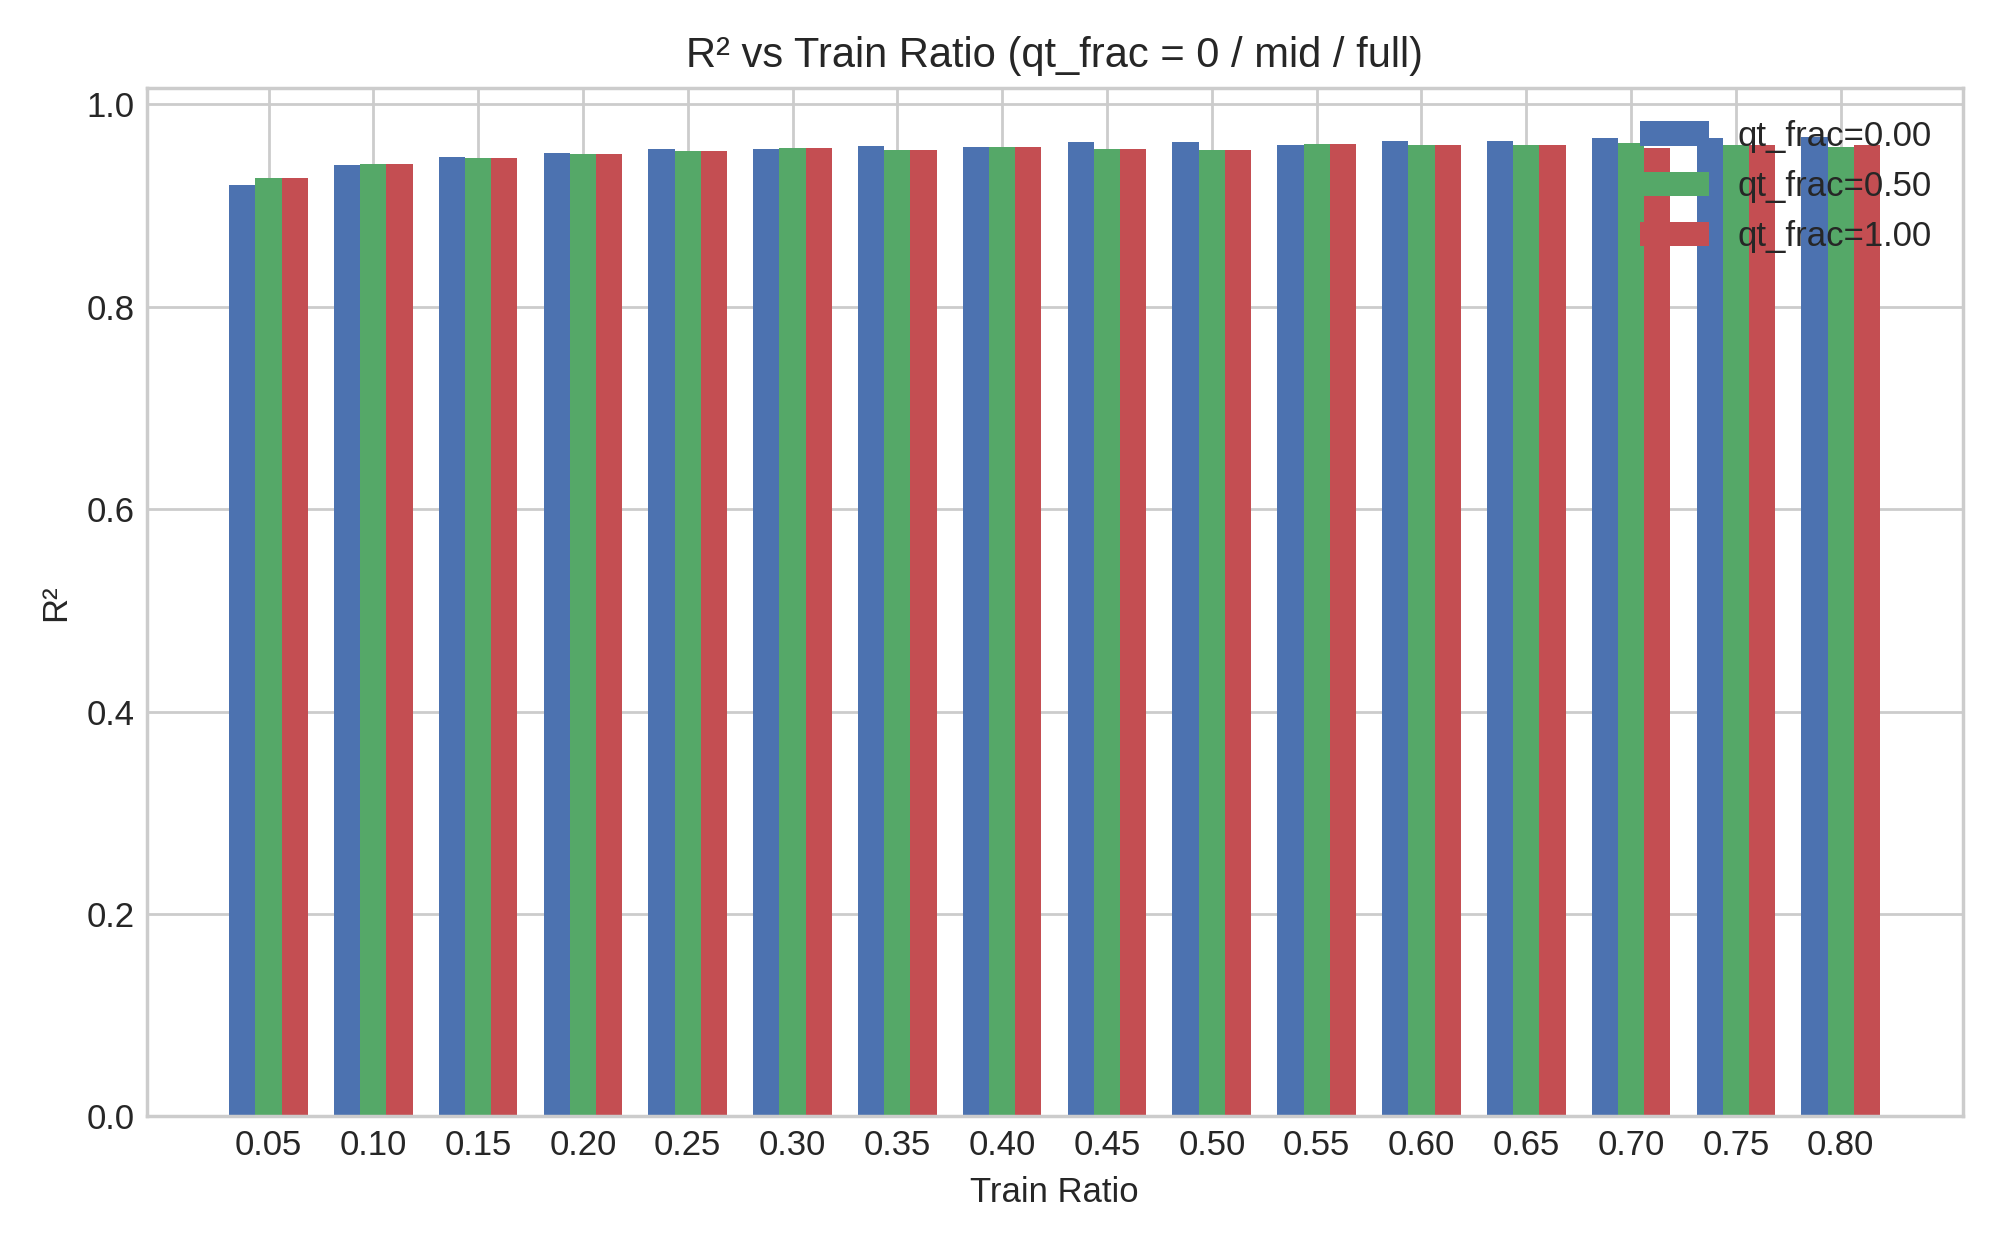
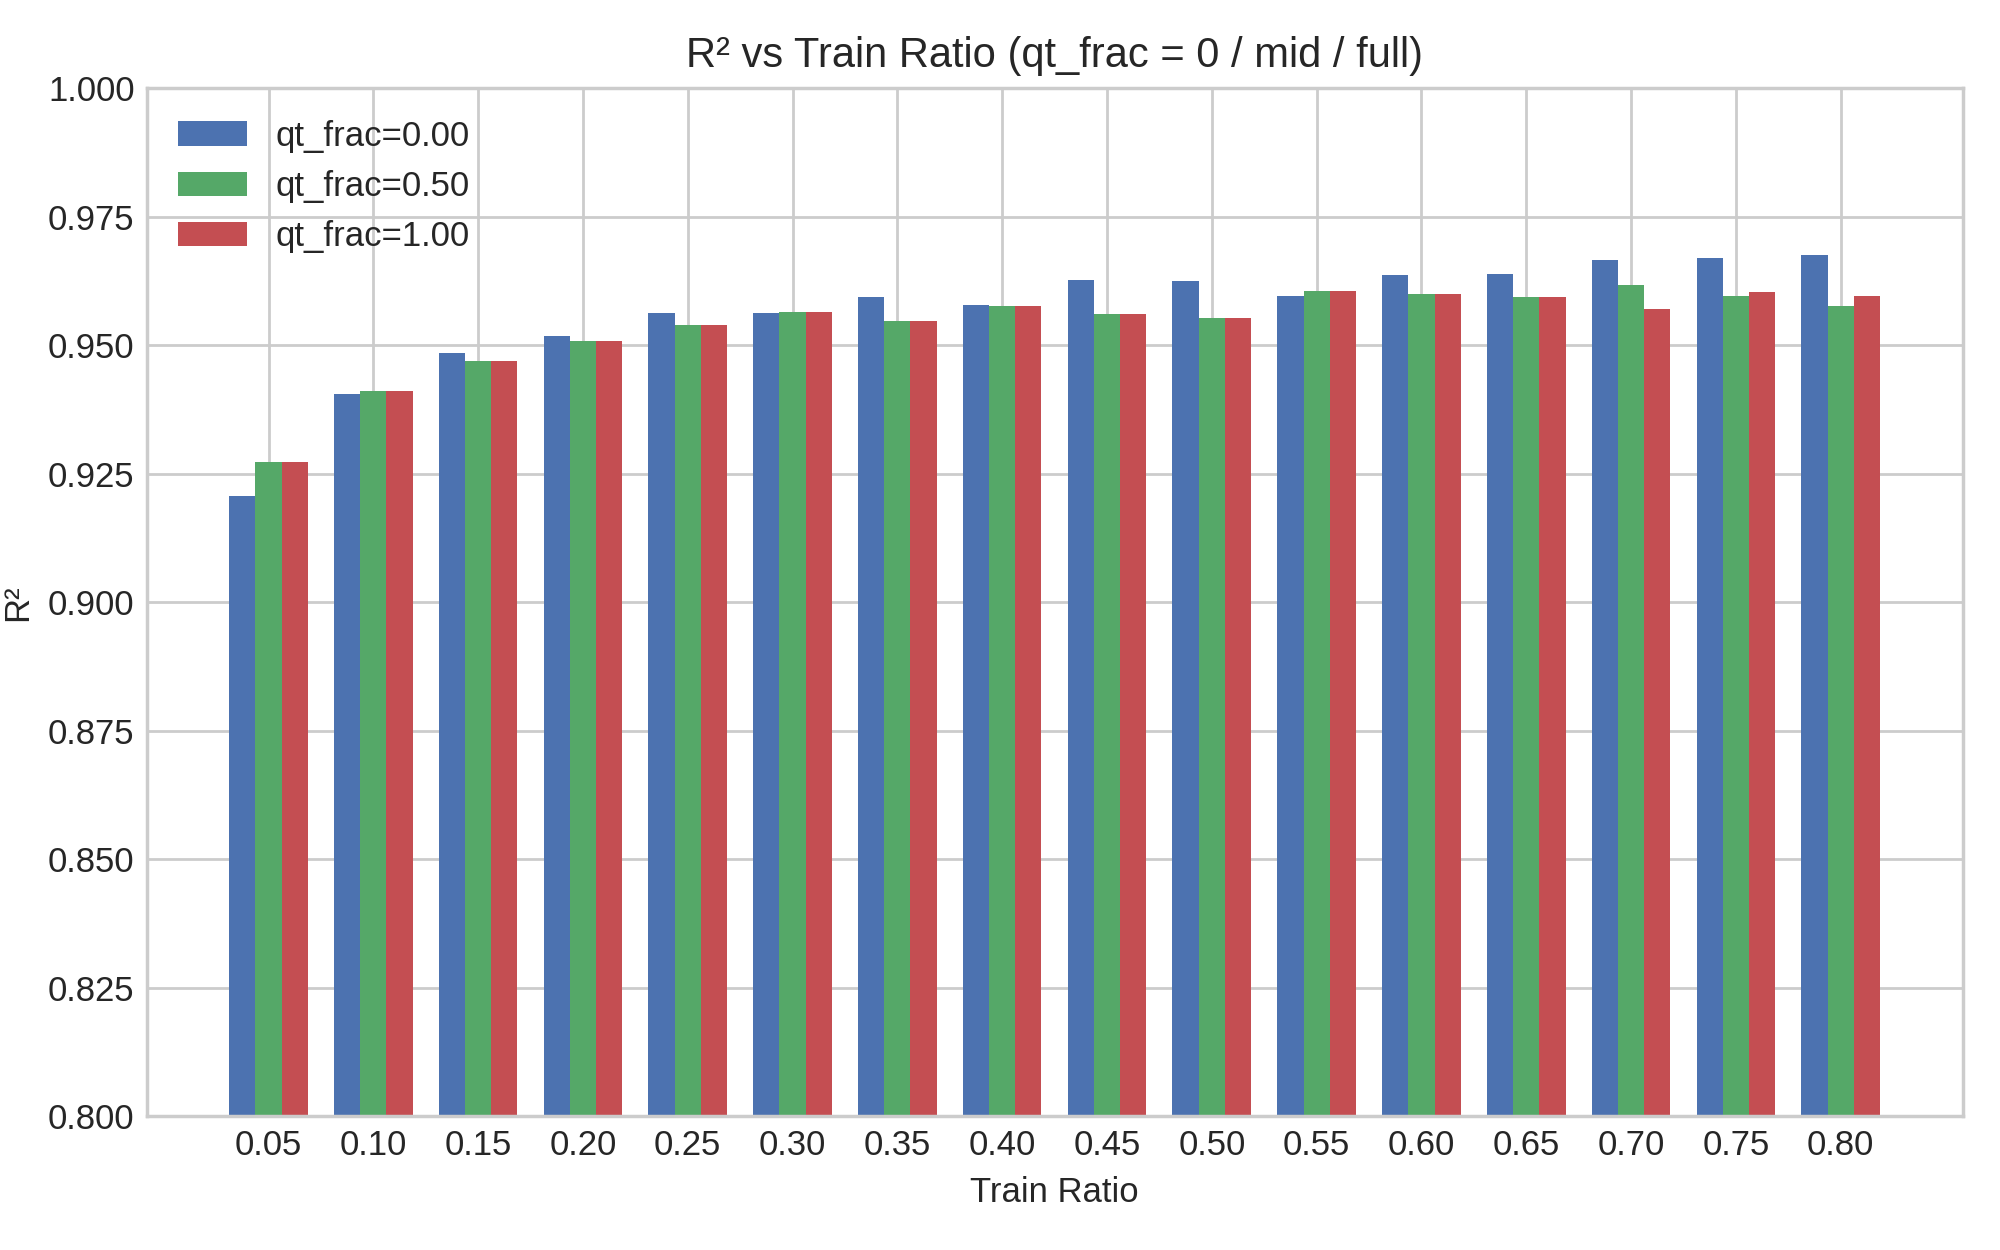
123

diff --git a/20251102_LOWPRESSURE_Argon_All/RUN_FULL_EXP/293K/0.01_to_15/CAT/b.py b/20251102_LOWPRESSURE_Argon_All/RUN_FULL_EXP/293K/0.01_to_15/CAT/b.py
@@ -42,12 +42,15 @@ for metric, label in zip(metrics, metric_labels):
             values.append(closest[metric].values[0] if not closest.empty else np.nan)
         plt.bar(x + i*width - width, values, width, label=f"qt_frac={qt:.2f}", color=colors[i])
     print(metric)
+
     plt.xticks(x, [f"{tr:.2f}" for tr in train_ratios])
     plt.xlabel("Train Ratio")
     plt.ylabel(label)
     plt.title(f"{label} vs Train Ratio (qt_frac = 0 / mid / full)")
     plt.legend()
     plt.tight_layout()
+    if metric == "R2_mean":
+        plt.ylim(0.8, 1)
     plt.savefig(f"plot_{metric.replace('(', '').replace(')', '').replace('%', 'pct')}.png", dpi=250)
     plt.close()
 
